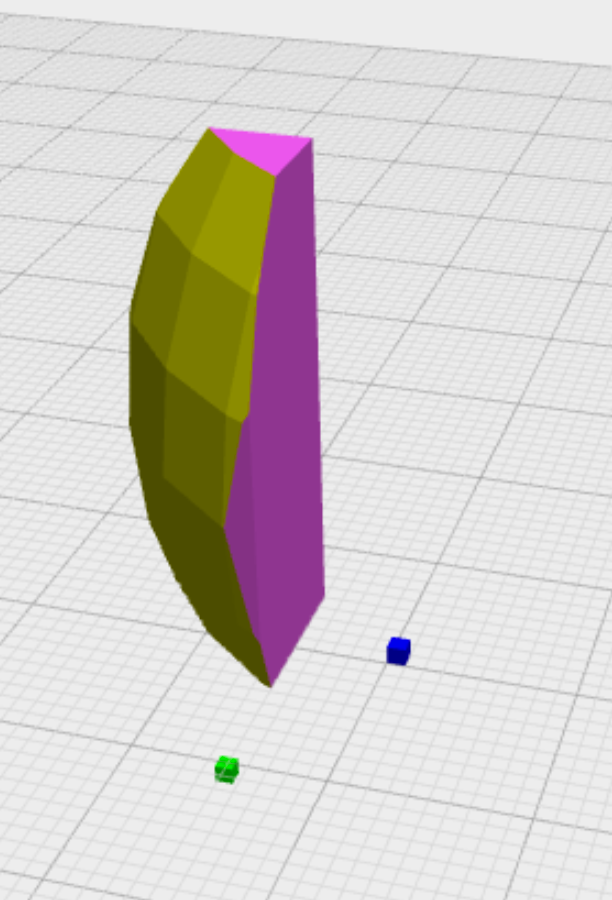
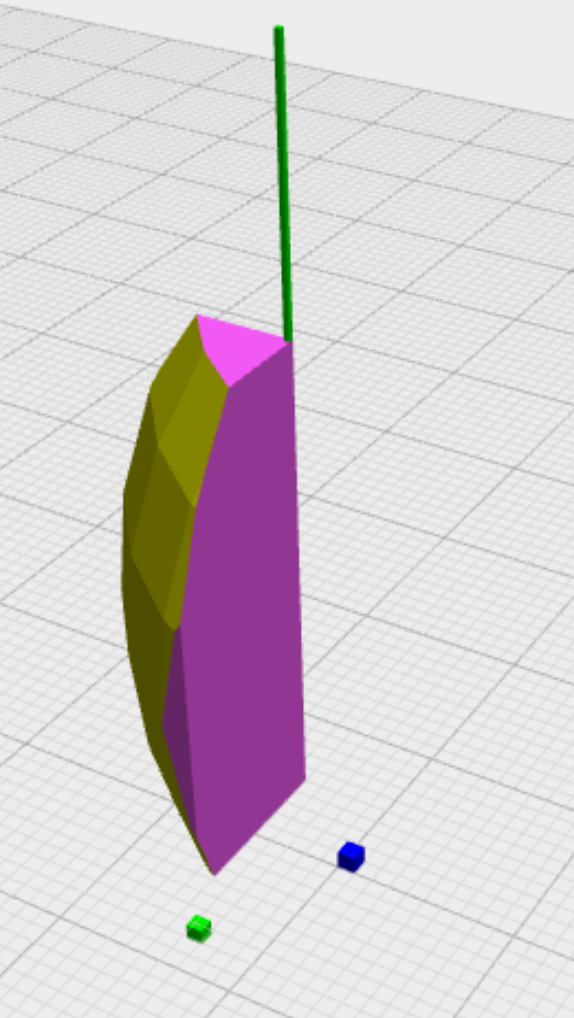
spir sat på

diff --git a/burjAlArab.js b/burjAlArab.js
@@ -7,27 +7,37 @@
 function main() {
 
 
+    var firkantSize = 10;
+    var spirSize    = .3;
+    //hotelform flytning med centrum i firkant
+    var halv = firkantSize/2;
+    var firkantFlyt = [-halv, -halv, 0];
+    //hotel spir flyttes den anden vej
+    var spirFlyt = [halv-spirSize,halv-spirSize,0];
 
     // vores standard objekter
-    var firkantSize = 10;
     var firkant = cube({size: [firkantSize,firkantSize,26]})
-                    .translate([-firkantSize/2,-firkantSize/2,0]);
-    
+                    .translate(firkantFlyt);
 
-    //sejlets z-akse skal have centrum i 10 højde (1/3 oppe)
+
+    // sejlets z-akse skal have centrum i 10 højde (1/3 oppe)
     var sejlRadius = 30;
     var sejlet  = sphere(sejlRadius)
                     .translate([0,0,10])
                     .setColor([.2,.2,.9,1])
                     .translate([2/3*sejlRadius,2/3*sejlRadius,0]);
     var klods   = cube({size: [1,1,1]});
-
+    var spir    = cube({size:[spirSize, spirSize,40]})
+                    .translate(spirFlyt)
+                    .setColor(0,1,0);
+                    //.scale(.5);
 
     var sten = [];
     var hotelForm = intersection(firkant,sejlet);
     //sten.push(firkant);
     //sten.push(sejlet)
     sten.push(hotelForm);
+    sten.push(spir);
 
     //sten.push(klods.translate([0,0,0]));
     sten.push(klods.translate([0,10,0]).setColor(1,0,0));
@@ -35,5 +45,5 @@ function main() {
     sten.push(klods.translate([10,0,0]).setColor(0,0,1));
 
     return union(sten);
-    
+
 }
